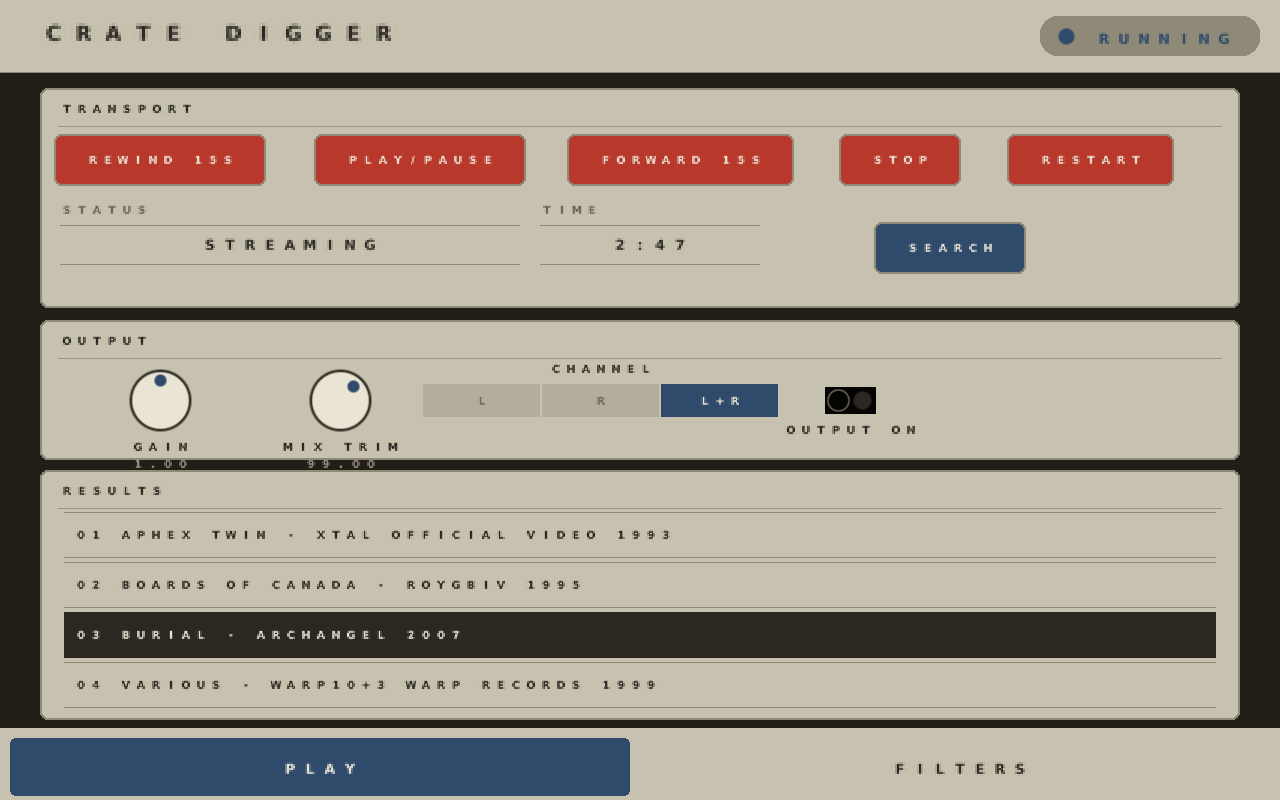
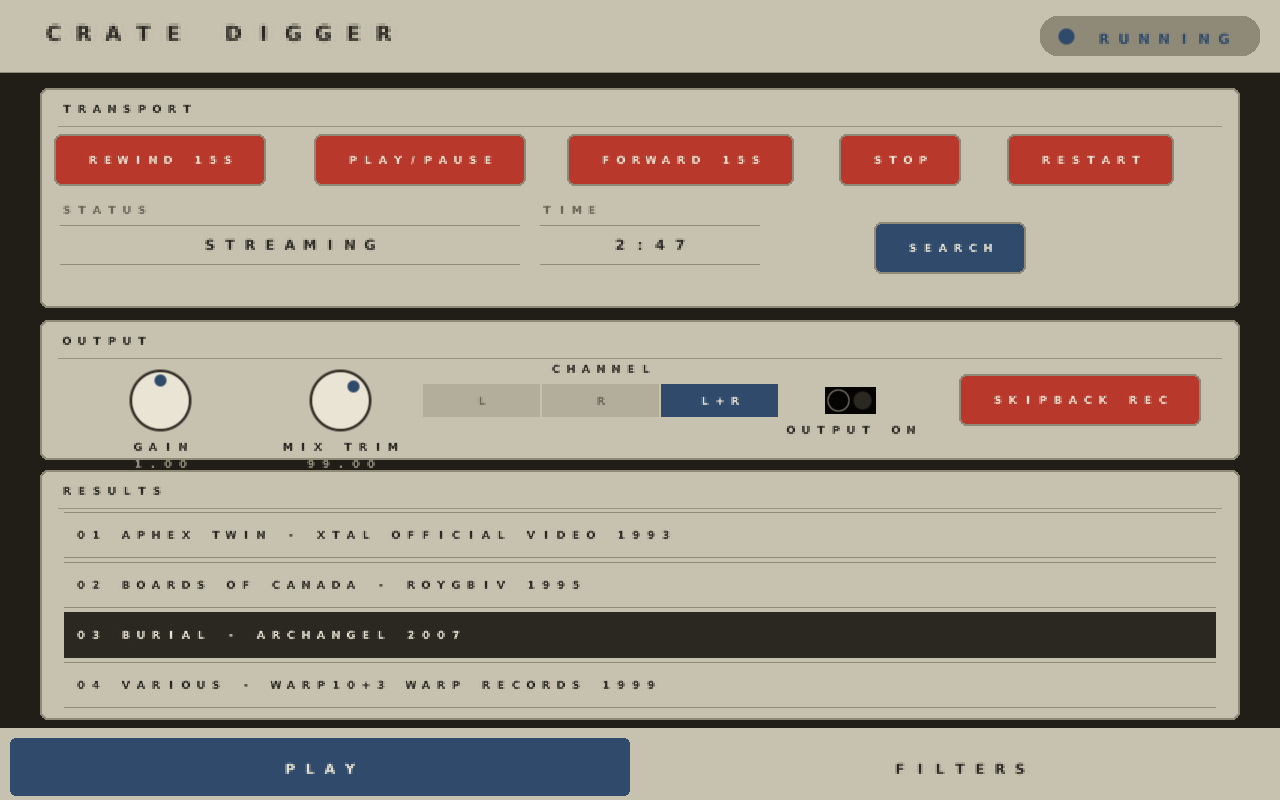
Add Skipback Rec: start/stop force-audioin's skipbackHost
Red button on both GUIs (OUTPUT section) that toggles force-audioin's
separate skipbackHost process (continuous rolling-buffer recording of
the Force's real main mix, flushed to WAV via a SHIFT+RECORD MidiLoop
shortcut). This addon doesn't spawn or own that process - the toggle
fires the same nodeServer /moduler/UPDATE start/stop HTTP call the
on-device Modules page itself uses (send_skipback_toggle() in
cratedigger_host.cpp), checking the real process list via `pgrep -x`
each time rather than trusting an internal flag that could drift out of
sync with the Modules page toggling it directly.

New control-socket keys: SET skipback_toggle, GET skipback_running
("1"/"0"), GET skipback_status ("RECORDING"/"STOPPED" - already
shadow-safe, one key serves both GUIs). New --skipback-nsmodule-path
CLI flag (same per-device mmPath problem as --module-dir), wired into
NSMODULE.json's ARGUMENTS and kept byte-identical in shadow_page.conf's
engine_arguments_json (verified via a JSON diff, not just by eye).

Claude-Session: https://claude.ai/code/session_01EGbYHVPR4tDeSY3yHn56Zb

Changed region(s): [[0.75, 0.4688, 0.9375, 0.5312]]

diff --git a/addon/web/index.html b/addon/web/index.html
@@ -63,6 +63,9 @@
   button:active { background: var(--panel); }
   button.primary { background: var(--blue); border-color: var(--blue); color: var(--cream); }
   button.primary:active { background: var(--blue-hi); }
+  button.skipback { background: var(--red); border-color: var(--red); color: var(--cream); }
+  button.skipback:active { background: var(--red-hi); }
+  button.skipback.recording { background: var(--red-hi); box-shadow: 0 0 0 2px var(--red) inset; }
   button:disabled { opacity: 0.4; cursor: default; }
 
   .filters { display: grid; grid-template-columns: 1fr 1fr; gap: 10px; }
@@ -147,10 +150,14 @@
 </div>
 
 <div class="card">
-  <h2>Gain</h2>
+  <h2>Output</h2>
   <div class="gain-row">
     <input type="range" id="gain" min="0" max="2" step="0.01" value="1">
     <span class="gain-val" id="gainVal">1.00</span>
+  </div>
+  <div class="row" style="margin-top:10px;">
+    <button class="skipback" id="skipbackBtn">Skipback Rec</button>
+    <span class="msg" id="skipbackMsg">stopped</span>
   </div>
 </div>
 
@@ -320,6 +327,11 @@ $("downloadBtn").addEventListener("click", async () => {
   setMsg($("downloadMsg"), r.ok ? "Started." : "Failed to start.", r.ok ? "ok" : "err");
 });
 
+$("skipbackBtn").addEventListener("click", async () => {
+  const r = await api("POST", "/param", { key: "skipback_toggle", value: "go" });
+  if (!r.ok) setMsg($("skipbackMsg"), "engine not running", "err");
+});
+
 let gainDirty = false;
 $("gain").addEventListener("input", () => {
   gainDirty = true;
@@ -350,6 +362,9 @@ async function pollState() {
       setMsg($("downloadMsg"), state.download_status === "done" ? ("Saved: " + state.download_path)
         : (state.download_error || state.download_status), t);
     }
+    const recording = state.skipback_status === "RECORDING";
+    $("skipbackBtn").classList.toggle("recording", recording);
+    setMsg($("skipbackMsg"), state.skipback_status ? state.skipback_status.toLowerCase() : "unknown");
   }
   setTimeout(pollState, 2000);
 }

diff --git a/src/cratedigger_host.cpp b/src/cratedigger_host.cpp
@@ -39,6 +39,7 @@
  */
 
 #include <atomic>
+#include <cerrno>
 #include <chrono>
 #include <cmath>
 #include <csignal>
@@ -53,8 +54,11 @@
 #include <sys/mman.h>
 #include <sys/socket.h>
 #include <sys/stat.h>
+#include <sys/time.h>
 #include <sys/un.h>
 #include <unistd.h>
+#include <arpa/inet.h>
+#include <netinet/in.h>
 
 #include "include/plugin_api_v1.h"
 #include "forceAudioInject.h"
@@ -76,6 +80,29 @@ static std::string g_module_json;      /* raw module.json, served for DESCRIBE *
 static std::string g_ctrl_sock_path = "/tmp/cratedigger_ctrl.sock";
 static bool         g_verbose = false;
 static unsigned     g_mix_slot = 0;    /* which /forceAudioInjectN this instance owns */
+
+/* Skipback (force-audioin's "Force Audio Jack - Skipback" addon,
+ * skipbackHost) is a separate companion process, not something this
+ * addon owns or spawns directly — see the SKIPBACK REC button's own
+ * comment further down for why toggling it goes through nodeServer's
+ * moduler endpoint exactly the way Force Shadow's own engine on/off
+ * button does, rather than this process fork/exec-ing it itself. Same
+ * per-device mmPath problem every other NSMODULE path in this project
+ * has (see README.md) — override with --skipback-nsmodule-path. */
+static std::string g_skipback_nsmodule_path =
+    "/media/CHANGE_ME/AddOns/ForceAudioJackSkipback/NSMODULE.json";
+static const char *SKIPBACK_PROCESSNAME = "skipbackHost";
+static const char *SKIPBACK_DIRNAME = "ForceAudioJackSkipback";
+/* Verbatim from that addon's own NSMODULE.json ARGUMENTS array — must be
+ * kept byte-for-byte in sync with it by hand (same fragility Force
+ * Shadow's own engine_arguments_json has, see shadow_page.conf's
+ * comment on that) since nodeServer's moduler endpoint overwrites the
+ * real NSMODULE.json with whatever ARGUMENTS this sends. */
+static const char *SKIPBACK_ARGUMENTS_JSON =
+    "[{\"NAME\":\"window flag\",\"VALUE\":\"--window-sec\"},"
+    "{\"NAME\":\"rolling window seconds (max 60)\",\"VALUE\":\"30\"},"
+    "{\"NAME\":\"output-dir flag\",\"VALUE\":\"--output-dir\"},"
+    "{\"NAME\":\"output folder\",\"VALUE\":\"/sdcard/Force Documents/Samples/Skipback\"}]";
 
 /* ---------------------------------------------------------------------------
  * Shared-memory ring setup (producer side) — identical in shape to
@@ -254,6 +281,14 @@ static void timer_loop() {
  *    lowercase words that would render the same way search results did
  *    before the fix above. playback_time is exempt (digits + ':' only,
  *    already safe) so its readout uses the plain key directly.
+ *  - "skipback_toggle" (SET, any value) / "skipback_running" (GET, "1"/
+ *    "0") / "skipback_status" (GET, "RECORDING"/"STOPPED" - already
+ *    upper-case ASCII, so this one key serves both GUIs, no "_shadow"
+ *    variant needed) — start/stop force-audioin's separate skipbackHost
+ *    process via nodeServer's /moduler/UPDATE endpoint, the same
+ *    mechanism Force Shadow's own engine on/off button uses. See
+ *    send_skipback_toggle()'s own comment for why this goes through
+ *    nodeServer rather than this process spawning skipbackHost itself.
  * ------------------------------------------------------------------------- */
 static bool handle_mix_set(const std::string &key, const std::string &val) {
     if (key == "mix.enabled") {
@@ -291,6 +326,73 @@ static bool handle_mix_get(const std::string &key, std::string &out) {
         return true;
     }
     return false;
+}
+
+/* ---------------------------------------------------------------------------
+ * Skipback toggle — start/stop force-audioin's separate skipbackHost
+ * process (continuous rolling-buffer recording of the Force's real main
+ * mix, flushed to WAV on a SHIFT+RECORD MidiLoop shortcut — see that
+ * project's docs/PROPOSAL-force-audio-jack.md). Not this addon's own
+ * process and not something this addon spawns directly — same reasoning
+ * Force Shadow's own engine on/off button uses for why (see that
+ * button's own comment in force_shadow.c): firing a plain HTTP POST to
+ * nodeServer's already-running /moduler/UPDATE endpoint (the same one
+ * the on-device Modules page itself uses) is a bounded, ordinary socket
+ * call, whereas fork()/exec()-ing a companion process ourselves would be
+ * reinventing process-lifecycle bookkeeping nodeServer already owns.
+ * Checks the real process list (not an internal flag we could drift out
+ * of sync with — e.g. if someone toggles it from the Modules page
+ * directly) via `pgrep -x` before each toggle, so this is always acting
+ * on the true current state.
+ * ------------------------------------------------------------------------- */
+static bool skipback_is_running() {
+    std::string cmd = std::string("pgrep -x ") + SKIPBACK_PROCESSNAME + " >/dev/null 2>&1";
+    return std::system(cmd.c_str()) == 0;
+}
+
+static void send_skipback_toggle(bool want_running) {
+    char body[1024];
+    int blen = std::snprintf(body, sizeof(body),
+        "{\"CONFIGFILE\":\"%s\",\"PROCESSNAME\":\"%s\",\"DIRNAME\":\"%s\","
+        "\"ARGUMENTS\":%s,\"RUNNING\":%s}",
+        g_skipback_nsmodule_path.c_str(), SKIPBACK_PROCESSNAME, SKIPBACK_DIRNAME,
+        SKIPBACK_ARGUMENTS_JSON, want_running ? "true" : "false");
+    if (blen < 0 || (size_t)blen >= sizeof(body)) {
+        fprintf(stderr, "[cratedigger] skipback_toggle: JSON body build failed/truncated\n");
+        return;
+    }
+
+    int fd = socket(AF_INET, SOCK_STREAM, 0);
+    if (fd < 0) { perror("[cratedigger] skipback_toggle: socket"); return; }
+    struct timeval tv = { 1, 0 };
+    setsockopt(fd, SOL_SOCKET, SO_SNDTIMEO, &tv, sizeof(tv));
+    setsockopt(fd, SOL_SOCKET, SO_RCVTIMEO, &tv, sizeof(tv));
+
+    struct sockaddr_in addr;
+    memset(&addr, 0, sizeof(addr));
+    addr.sin_family = AF_INET;
+    addr.sin_port = htons(8080);
+    inet_pton(AF_INET, "127.0.0.1", &addr.sin_addr);
+
+    if (connect(fd, (struct sockaddr *)&addr, sizeof(addr)) == 0) {
+        char req[1536];
+        int rlen = std::snprintf(req, sizeof(req),
+            "POST /moduler/UPDATE HTTP/1.1\r\n"
+            "Host: 127.0.0.1\r\n"
+            "Content-Type: application/json\r\n"
+            "Content-Length: %d\r\n"
+            "Connection: close\r\n"
+            "\r\n%s",
+            blen, body);
+        if (rlen > 0 && (size_t)rlen < sizeof(req)) {
+            send(fd, req, (size_t)rlen, MSG_NOSIGNAL);
+            if (g_verbose) fprintf(stderr, "[cratedigger] skipback_toggle: sent RUNNING=%s\n",
+                                    want_running ? "true" : "false");
+        }
+    } else {
+        fprintf(stderr, "[cratedigger] skipback_toggle: connect to nodeServer failed: %s\n", strerror(errno));
+    }
+    close(fd);
 }
 
 /* Must be called with g_lock already held. */
@@ -648,6 +750,12 @@ static void handle_ctrl_line(int fd, const std::string &line) {
             send(fd, "OK\n", 3, 0);
             return;
         }
+        if (!strcmp(key, "skipback_toggle")) {
+            bool now_running = skipback_is_running();
+            send_skipback_toggle(!now_running);
+            send(fd, "OK\n", 3, 0);
+            return;
+        }
         std::lock_guard<std::mutex> lk(g_lock);
         g_api->set_param(g_inst, key, val);
         send(fd, "OK\n", 3, 0);
@@ -760,6 +868,19 @@ static void handle_ctrl_line(int fd, const std::string &line) {
             send(fd, reply.c_str(), reply.size(), 0);
             return;
         }
+        if (!strcmp(key, "skipback_running")) {
+            std::string reply = std::string(skipback_is_running() ? "1" : "0") + "\n";
+            send(fd, reply.c_str(), reply.size(), 0);
+            return;
+        }
+        if (!strcmp(key, "skipback_status")) {
+            /* Already upper-case ASCII-only, so this one string works
+             * unmodified for both the web GUI and (via this exact key,
+             * no separate "_shadow" variant needed) Force Shadow's font. */
+            std::string reply = std::string(skipback_is_running() ? "RECORDING" : "STOPPED") + "\n";
+            send(fd, reply.c_str(), reply.size(), 0);
+            return;
+        }
         /* Generic "<real key>_shadow" convention: strip the suffix, fetch
          * the real value (core or mix.*), and run it through
          * shadow_font_safe() before returning. Exists because most of the
@@ -849,6 +970,10 @@ static void usage(const char *me) {
         "  --module-dir PATH     dir containing module.json, bin/yt-dlp,\n"
         "                        bin/yt_dlp_daemon.py, bin/ffmpeg (default: .)\n"
         "  --ctrl-sock PATH      control socket path (default: /tmp/cratedigger_ctrl.sock)\n"
+        "  --skipback-nsmodule-path PATH\n"
+        "                        path to ForceAudioJackSkipback's own NSMODULE.json,\n"
+        "                        for the SKIPBACK REC button (default: a CHANGE_ME\n"
+        "                        placeholder - see README.md)\n"
         "  --mix-slot N          voice slot 0..%d for forceAudioIn.so (default: 0) -\n"
         "                        each simultaneous voice needs a distinct slot\n",
         me, AI_MAX_VOICES - 1);
@@ -873,6 +998,7 @@ int main(int argc, char **argv) {
         if      (a == "-v")                        g_verbose = true;
         else if (a == "--module-dir" && i+1 < argc) module_dir = argv[++i];
         else if (a == "--ctrl-sock"  && i+1 < argc) g_ctrl_sock_path = argv[++i];
+        else if (a == "--skipback-nsmodule-path" && i+1 < argc) g_skipback_nsmodule_path = argv[++i];
         else if (a == "--mix-slot" && i+1 < argc) {
             int s = std::atoi(argv[++i]);
             if (s < 0 || s >= AI_MAX_VOICES) { usage(argv[0]); return 2; }

diff --git a/addon/web/server.py b/addon/web/server.py
@@ -112,7 +112,7 @@ class Handler(BaseHTTPRequestHandler):
                 "stream_status", "playback_time", "gain", "stream_url",
                 "stream_provider", "search_status", "search_count",
                 "search_error", "download_status", "download_path",
-                "download_error",
+                "download_error", "skipback_status",
             ]
             out = {}
             for k in keys:

diff --git a/README.md b/README.md
@@ -29,18 +29,31 @@ see [Credit & what's actually new here](#credit--whats-actually-new-here).
 - **Web GUI** (`addon/web/`): cascading Genre → Style and Region → Country
   dropdowns plus a Decade dropdown, a dedicated **Search Discogs** button
   (nothing searches until you press it), a results list, transport
-  control (play/pause, ±15s seek, stop, restart), gain, and download to
-  WAV.
+  control (play/pause, ±15s seek, stop, restart), gain, download to WAV,
+  and a **Skipback Rec** button (see below).
 - **Shadow GUI** (`addon/shadow_page.conf`): a `style=td3` page themed
   after a vintage Akai MPC60 — `SHIFT+SCENE-6` opens it directly on the
   Force's own touchscreen, two tabs:
-  - **PLAY** — transport, output gain/routing, engine on/off, a results
-    list (tap to play), and its own **SEARCH** button so a filter set on
-    the FILTERS tab can be re-run without switching tabs.
+  - **PLAY** — transport, output gain/routing, engine on/off, a
+    **Skipback Rec** button, a results list (tap to play), and its own
+    **SEARCH** button so a filter set on the FILTERS tab can be re-run
+    without switching tabs.
   - **FILTERS** — five steppers (Genre, Style, Decade, Region, Country —
     Style depends on the current Genre, Country on the current Region)
     and a dedicated **SEARCH DISCOGS** button, same "nothing searches
     until you press it" behavior as the web GUI.
+- **Skipback Rec**: a red button (both GUIs) that starts/stops
+  [force-audioin](https://github.com/sd88me/force-audioin)'s separate
+  `skipbackHost` process — continuous rolling-buffer recording of the
+  Force's real main mix, so a `SHIFT+RECORD` shortcut can save the last
+  N seconds retroactively. This addon doesn't run or own that process;
+  the button fires the same nodeServer `/moduler/UPDATE` start/stop
+  call the on-device Modules page itself uses (see
+  `cratedigger_host.cpp`'s `send_skipback_toggle()`). Requires
+  force-audioin's Force Audio Jack feature to actually be installed and
+  its own tap armed — this button only starts/stops `skipbackHost`
+  itself, same "toggling here doesn't arm the underlying tap" caveat
+  ForceAudioJackSkipback's own `NSMODULE.json` states.
 
 ## How it works (for anyone extending this)
 
@@ -136,18 +149,21 @@ Or by hand: `scp -r dist/ForceCrateDigger root@<force-ip>:<mmPath>/AddOns/ForceC
 
 ## Required per-device edits before enabling
 
-Two files hardcode an absolute path to this addon's own install location —
-`/media/CHANGE_ME/AddOns/ForceCrateDigger` — because MockbaMod addon paths
-are genuinely per-device (the SD card's mount point varies), not something
-a build step can know in advance. This is the same situation
-force-maze/ForceMazeVoice's own `NSMODULE.json` is in. **Before enabling,
-edit both to your real path** (SSH in, `cat /dev/shm/.mmPath`, then
-`<that>/AddOns/ForceCrateDigger`):
+Two files hardcode absolute paths to addon install locations —
+`/media/CHANGE_ME/AddOns/ForceCrateDigger` and (for the Skipback Rec
+button) `/media/CHANGE_ME/AddOns/ForceAudioJackSkipback/NSMODULE.json` —
+because MockbaMod addon paths are genuinely per-device (the SD card's
+mount point varies), not something a build step can know in advance.
+This is the same situation force-maze/ForceMazeVoice's own
+`NSMODULE.json` is in. **Before enabling, edit every occurrence to your
+real path** (SSH in, `cat /dev/shm/.mmPath`, then
+`<that>/AddOns/ForceCrateDigger` / `<that>/AddOns/ForceAudioJackSkipback`):
 
-- `addon/NSMODULE.json` → the `ARGUMENTS` entry with `NAME` containing
-  "EDIT to your device's real mmPath"
+- `addon/NSMODULE.json` → the two `ARGUMENTS` entries with `NAME`
+  containing "EDIT to your device's real mmPath" (one for this addon's
+  own module dir, one for Skipback's NSMODULE.json path)
 - `addon/shadow_page.conf` → `engine_nsmodule_path` and the matching
-  entry inside `engine_arguments_json` (these two **must stay byte-for-
+  entries inside `engine_arguments_json` (these two **must stay byte-for-
   byte identical** — Force Shadow's engine on/off button re-sends
   `engine_arguments_json` verbatim to nodeServer, so a stale copy would
   silently corrupt the real `NSMODULE.json` on next toggle)
